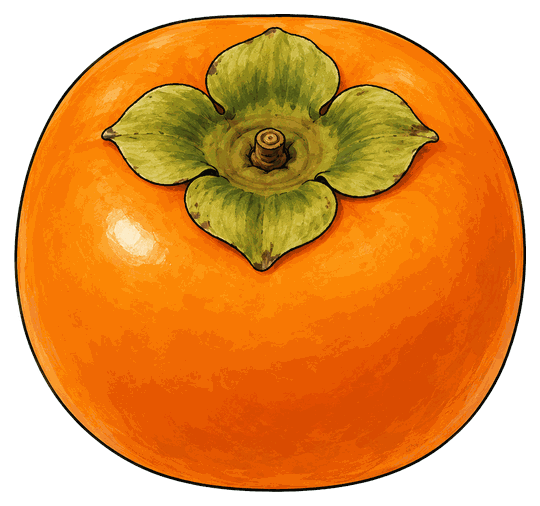
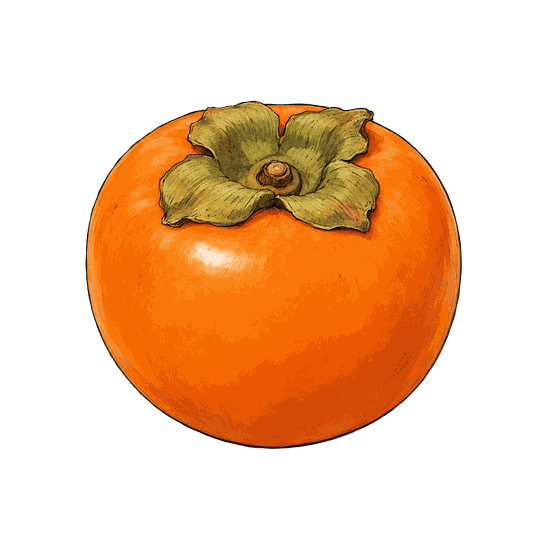
Wire persimmon re-angle, colour clock dial, polish sheet 2 (v261)
- persimmon: replace top-down art with the front three-quarter angle
- clock: CLOCK_IMG now renders the coloured clockface.png dial with the
  original rotating ink hands overlaid (data-clock time positions
  unchanged); retires the all-SVG face
- polish sheet 2 cut + wired: raincloud (i-think, even-though),
  chatbubble (quoting), suitcase (intend), thief (passive), bill
  (causative) — each scene repointed from its generic reuse to the
  dedicated prop. Added to OBJ_IMG/OBJ_NAME + SW SHELL.

Claude-Session: https://claude.ai/code/session_017cTU4iZZFsn4ihtc7FXgZm

diff --git a/interactive-learning.js b/interactive-learning.js
@@ -33,7 +33,7 @@
   ];
 
   // ---- object library (sketch-ink sprites; SVG fallback for unconverted) ----
-  const OBJ_NAME = { book: "book", bag: "bag", clock: "clock", cup: "tea", water: "water", coffee: "coffee", mystery: "mystery bundle", wc: "restroom sign", station: "station", friend: "friend", mochiko: "もち子", menu: "menu", sushi: "sushi", car: "car", house: "house", bigface: "big face", persimmon: "persimmon", redface: "a very red face", dogface: "dog", redflower: "flower", boat: "boat", sea: "sea", town: "town", winter: "snowman", sakura: "cherry tree", whitecat: "white cat", japanmap: "Japan", telephone: "telephone", mountain: "mountain", sun: "sun", moon: "moon", chair: "chair", signal: "traffic light", train: "train", bus: "bus", umbrella: "umbrella", ticket: "ticket", cow: "cow", octopus: "octopus", cat: "cat", star: "stars", peach: "peach", bird: "bird", flower: "flower", beer: "beer", redwine: "red wine", whitewine: "white wine", greentea: "green tea", icedtea: "iced tea", cola: "cola", sake: "sake", sukiyaki: "sukiyaki", breakfast: "breakfast", yakitori: "yakitori", curry: "curry rice", cake: "cake", wagashi: "sweets", karaage: "fried chicken", grilledfish: "grilled fish", gloves: "gloves", shoes: "shoes", wallet: "wallet", medicine: "medicine", map: "map", card: "card", tv: "TV", gohan: "rice", natto: "nattō", emptyplate: "empty plate", toothbrush: "toothbrush", alarmclock: "alarm clock" };
+  const OBJ_NAME = { book: "book", bag: "bag", clock: "clock", cup: "tea", water: "water", coffee: "coffee", mystery: "mystery bundle", wc: "restroom sign", station: "station", friend: "friend", mochiko: "もち子", menu: "menu", sushi: "sushi", car: "car", house: "house", bigface: "big face", persimmon: "persimmon", redface: "a very red face", dogface: "dog", redflower: "flower", boat: "boat", sea: "sea", town: "town", winter: "snowman", sakura: "cherry tree", whitecat: "white cat", japanmap: "Japan", telephone: "telephone", mountain: "mountain", sun: "sun", moon: "moon", chair: "chair", signal: "traffic light", train: "train", bus: "bus", umbrella: "umbrella", ticket: "ticket", cow: "cow", octopus: "octopus", cat: "cat", star: "stars", peach: "peach", bird: "bird", flower: "flower", beer: "beer", redwine: "red wine", whitewine: "white wine", greentea: "green tea", icedtea: "iced tea", cola: "cola", sake: "sake", sukiyaki: "sukiyaki", breakfast: "breakfast", yakitori: "yakitori", curry: "curry rice", cake: "cake", wagashi: "sweets", karaage: "fried chicken", grilledfish: "grilled fish", gloves: "gloves", shoes: "shoes", wallet: "wallet", medicine: "medicine", map: "map", card: "card", tv: "TV", gohan: "rice", natto: "nattō", emptyplate: "empty plate", toothbrush: "toothbrush", alarmclock: "alarm clock", raincloud: "rain cloud", chatbubble: "message", suitcase: "suitcase", thief: "the theft", bill: "money" };
   const OBJ_JP = { book: "ほん", bag: "かばん", clock: "とけい", cup: "おちゃ", water: "みず", coffee: "コーヒー", wc: "トイレ", station: "えき", friend: "ともだち", menu: "メニュー", sushi: "おすし", car: "くるま", house: "いえ", bigface: "かお", persimmon: "かき", redface: "かお", dogface: "いぬ", redflower: "はな", boat: "ふね", sea: "うみ", town: "まち", winter: "ふゆ", sakura: "さくら", whitecat: "ねこ", japanmap: "にほん", telephone: "でんわ", mountain: "やま", sun: "たいよう", moon: "つき", chair: "いす", signal: "しんごう", train: "でんしゃ", bus: "バス", umbrella: "かさ", ticket: "きっぷ", cow: "うし", octopus: "たこ", cat: "ねこ", star: "ほし", peach: "もも", bird: "とり", flower: "はな" };
 
   // ---- zones: distance IS the grammar --------------------------------------
@@ -1077,7 +1077,7 @@
     },
     "i-think": {
       "I think it'll rain tomorrow.": {
-        id: "ithink-rain", type: "ask", scene: "street", zone: "far", object: "umbrella",
+        id: "ithink-rain", type: "ask", scene: "street", zone: "far", object: "raincloud",
         askLabel: "Give your hunch:", cta: "Say it →", feedback: "〜と おもう — I think / I reckon.",
         instruction: "Grey skies coming in",
         copy: "Not certain — just your guess. Tap the umbrella and say what you think.",
@@ -1085,7 +1085,7 @@
     },
     "quoting": {
       "They said they're not coming tomorrow.": {
-        id: "quote-konai", type: "ask", scene: "plain", zone: "center", object: "telephone",
+        id: "quote-konai", type: "ask", scene: "plain", zone: "center", object: "chatbubble",
         askLabel: "Pass on the message:", cta: "Say it →", feedback: "〜って いってた — they said (casual quote).",
         instruction: "A message just came in",
         copy: "Relay what they told you. Tap the phone and pass it on.",
@@ -1125,7 +1125,7 @@
     },
     "intend": {
       "I'm set to go to Japan in summer.": {
-        id: "intend-japan", type: "ask", scene: "plain", zone: "center", object: "japanmap",
+        id: "intend-japan", type: "ask", scene: "plain", zone: "center", object: "suitcase",
         askLabel: "State your plan:", cta: "Say it →", feedback: "よてい — a set plan / on the schedule.",
         instruction: "Summer trip on the calendar",
         copy: "It's settled, not a maybe. Tap Japan and say the plan.",
@@ -1141,7 +1141,7 @@
     },
     "passive": {
       "My wallet was stolen.": {
-        id: "pass-nusumareta", type: "ask", scene: "plain", zone: "center", object: "wallet",
+        id: "pass-nusumareta", type: "ask", scene: "plain", zone: "center", object: "thief",
         askLabel: "Say what happened to you:", cta: "Say it →", feedback: "ぬすまれた — was stolen (passive; done TO you).",
         instruction: "Your wallet's been taken",
         copy: "It happened to you — you didn't do it. Tap the wallet and say so.",
@@ -1149,7 +1149,7 @@
     },
     "causative": {
       "Let me pay today.": {
-        id: "caus-harawasete", type: "ask", scene: "shop", zone: "center", object: "card",
+        id: "caus-harawasete", type: "ask", scene: "shop", zone: "center", object: "bill",
         askLabel: "Offer to pay:", cta: "Say it →", feedback: "はらわせて — let me pay (causative, asking to be allowed).",
         instruction: "The bill arrives — you grab it",
         copy: "Ask to be the one who pays. Tap the card and insist.",
@@ -1173,7 +1173,7 @@
     },
     "even-though": {
       "Even if it rains, I'll go.": {
-        id: "even-rain", type: "ask", scene: "street", zone: "center", object: "umbrella",
+        id: "even-rain", type: "ask", scene: "street", zone: "center", object: "raincloud",
         askLabel: "Stand your ground:", cta: "Say it →", feedback: "〜でも — even if / no matter.",
         instruction: "Rain in the forecast — going anyway",
         copy: "Nothing's stopping you. Tap the umbrella and say you'll go regardless.",
@@ -1464,12 +1464,17 @@
     // Polish sheet 1: dedicated props that make a scene read as its exact sentence.
     tv: "tv", gohan: "gohan", natto: "natto", emptyplate: "emptyplate",
     toothbrush: "toothbrush", alarmclock: "alarmclock",
+    // Polish sheet 2: situation props.
+    raincloud: "raincloud", chatbubble: "chatbubble", suitcase: "suitcase",
+    thief: "thief", bill: "bill",
   };
   const BOOK_IMGS = '<img class="obj-sketch bi-circle" src="assets/story/book-circle.png" alt="">' +
     '<img class="obj-sketch bi-stripes" src="assets/story/book-stripes.png" alt="">' +
     '<img class="obj-sketch bi-window" src="assets/story/book-window.png" alt="">';
-  // clock = sketch face + the original rotating hands (CSS drives them via data-clock)
-  const CLOCK_IMG = '<svg class="clock-svg" viewBox="0 0 100 100" preserveAspectRatio="xMidYMid meet"><circle cx="50" cy="50" r="46" fill="#fdfcf6" stroke="#2a2c33" stroke-width="3.5"/><circle cx="50" cy="50" r="41" fill="none" stroke="#2a2c33" stroke-width="1"/><g fill="#2a2c33" font-family="Georgia,\'Times New Roman\',serif" font-size="9" font-weight="700" text-anchor="middle"><text x="50" y="17.5">12</text><text x="68" y="22">1</text><text x="81" y="34.5">2</text><text x="85.5" y="53.5">3</text><text x="81" y="72.5">4</text><text x="68" y="85">5</text><text x="50" y="89.5">6</text><text x="32" y="85">7</text><text x="19" y="72.5">8</text><text x="14.5" y="53.5">9</text><text x="19" y="34.5">10</text><text x="32" y="22">11</text></g><line class="clock-hand-h" x1="50" y1="53" x2="50" y2="31" stroke="#2a2c33" stroke-width="3.4" stroke-linecap="round"/><line class="clock-hand-m" x1="50" y1="53" x2="50" y2="18" stroke="#2a2c33" stroke-width="2.4" stroke-linecap="round"/><circle cx="50" cy="50" r="2.6" fill="#2a2c33"/></svg>';
+  // clock = the coloured dial PNG + the original rotating ink hands overlaid
+  // (CSS drives the hands via data-clock; .clock-hands sits absolute over the img).
+  const CLOCK_IMG = '<img class="obj-sketch" src="assets/story/clockface.png" alt="">' +
+    '<svg class="clock-svg clock-hands" viewBox="0 0 100 100" preserveAspectRatio="xMidYMid meet"><line class="clock-hand-h" x1="50" y1="53" x2="50" y2="31" stroke="#2a2c33" stroke-width="3.4" stroke-linecap="round"/><line class="clock-hand-m" x1="50" y1="53" x2="50" y2="18" stroke="#2a2c33" stroke-width="2.4" stroke-linecap="round"/><circle cx="50" cy="50" r="2.6" fill="#2a2c33"/></svg>';
   function objArtHTML(key) {
     if (key === "book") return BOOK_IMGS;
     if (key === "clock") return CLOCK_IMG;

diff --git a/index.html b/index.html
@@ -16,12 +16,12 @@
     <link rel="preconnect" href="https://fonts.googleapis.com" />
     <link rel="preconnect" href="https://fonts.gstatic.com" crossorigin />
     <link href="https://fonts.googleapis.com/css2?family=Mochiy+Pop+One&family=Zen+Maru+Gothic:wght@500;700;900&family=IBM+Plex+Mono:wght@500;600&family=Zen+Kaku+Gothic+New:wght@400;500;700&display=swap" rel="stylesheet" />
-    <link rel="stylesheet" href="styles.css?v=260" />
-    <link rel="stylesheet" href="theme.css?v=260" />
-    <link rel="stylesheet" href="ui-polish.css?v=260" />
-    <link rel="stylesheet" href="subway.css?v=260" />
-    <link rel="stylesheet" href="interactive-learning.css?v=260" />
-    <link rel="stylesheet" href="stampbook.css?v=260" />
+    <link rel="stylesheet" href="styles.css?v=261" />
+    <link rel="stylesheet" href="theme.css?v=261" />
+    <link rel="stylesheet" href="ui-polish.css?v=261" />
+    <link rel="stylesheet" href="subway.css?v=261" />
+    <link rel="stylesheet" href="interactive-learning.css?v=261" />
+    <link rel="stylesheet" href="stampbook.css?v=261" />
     <link rel="preload" as="image" href="assets/story/mochiko-think.png" />
   </head>
   <body>
@@ -425,14 +425,14 @@
       </footer>
     </main>
 
-    <script src="lessons.js?v=260"></script>
-    <script src="kana.js?v=260"></script>
-    <script src="emoji.js?v=260"></script>
-    <script src="app.js?v=260"></script>
-    <script src="interactive-learning.js?v=260"></script>
-    <script src="stampbook.js?v=260"></script>
-    <script src="theme.js?v=260"></script>
+    <script src="lessons.js?v=261"></script>
+    <script src="kana.js?v=261"></script>
+    <script src="emoji.js?v=261"></script>
+    <script src="app.js?v=261"></script>
+    <script src="interactive-learning.js?v=261"></script>
+    <script src="stampbook.js?v=261"></script>
+    <script src="theme.js?v=261"></script>
     <!-- collection.js (stamps) removed for now — owner, 2026-07 -->
-    <script src="ui-polish.js?v=260"></script>
+    <script src="ui-polish.js?v=261"></script>
   </body>
 </html>

diff --git a/sw.js b/sw.js
@@ -1,6 +1,6 @@
 // Service worker — offline app shell for the Hanasou PWA.
 // Bump CACHE when the precached shell list changes to evict the old cache.
-const CACHE = "hanasou-v260";
+const CACHE = "hanasou-v261";
 const SHELL = [
   "./",
   "index.html",
@@ -120,6 +120,11 @@ const SHELL = [
   "assets/story/emptyplate.png",
   "assets/story/toothbrush.png",
   "assets/story/alarmclock.png",
+  "assets/story/raincloud.png",
+  "assets/story/chatbubble.png",
+  "assets/story/suitcase.png",
+  "assets/story/thief.png",
+  "assets/story/bill.png",
   "assets/story/shelf.png",
   "assets/story/table.png",
   "assets/covers/activities.png",
